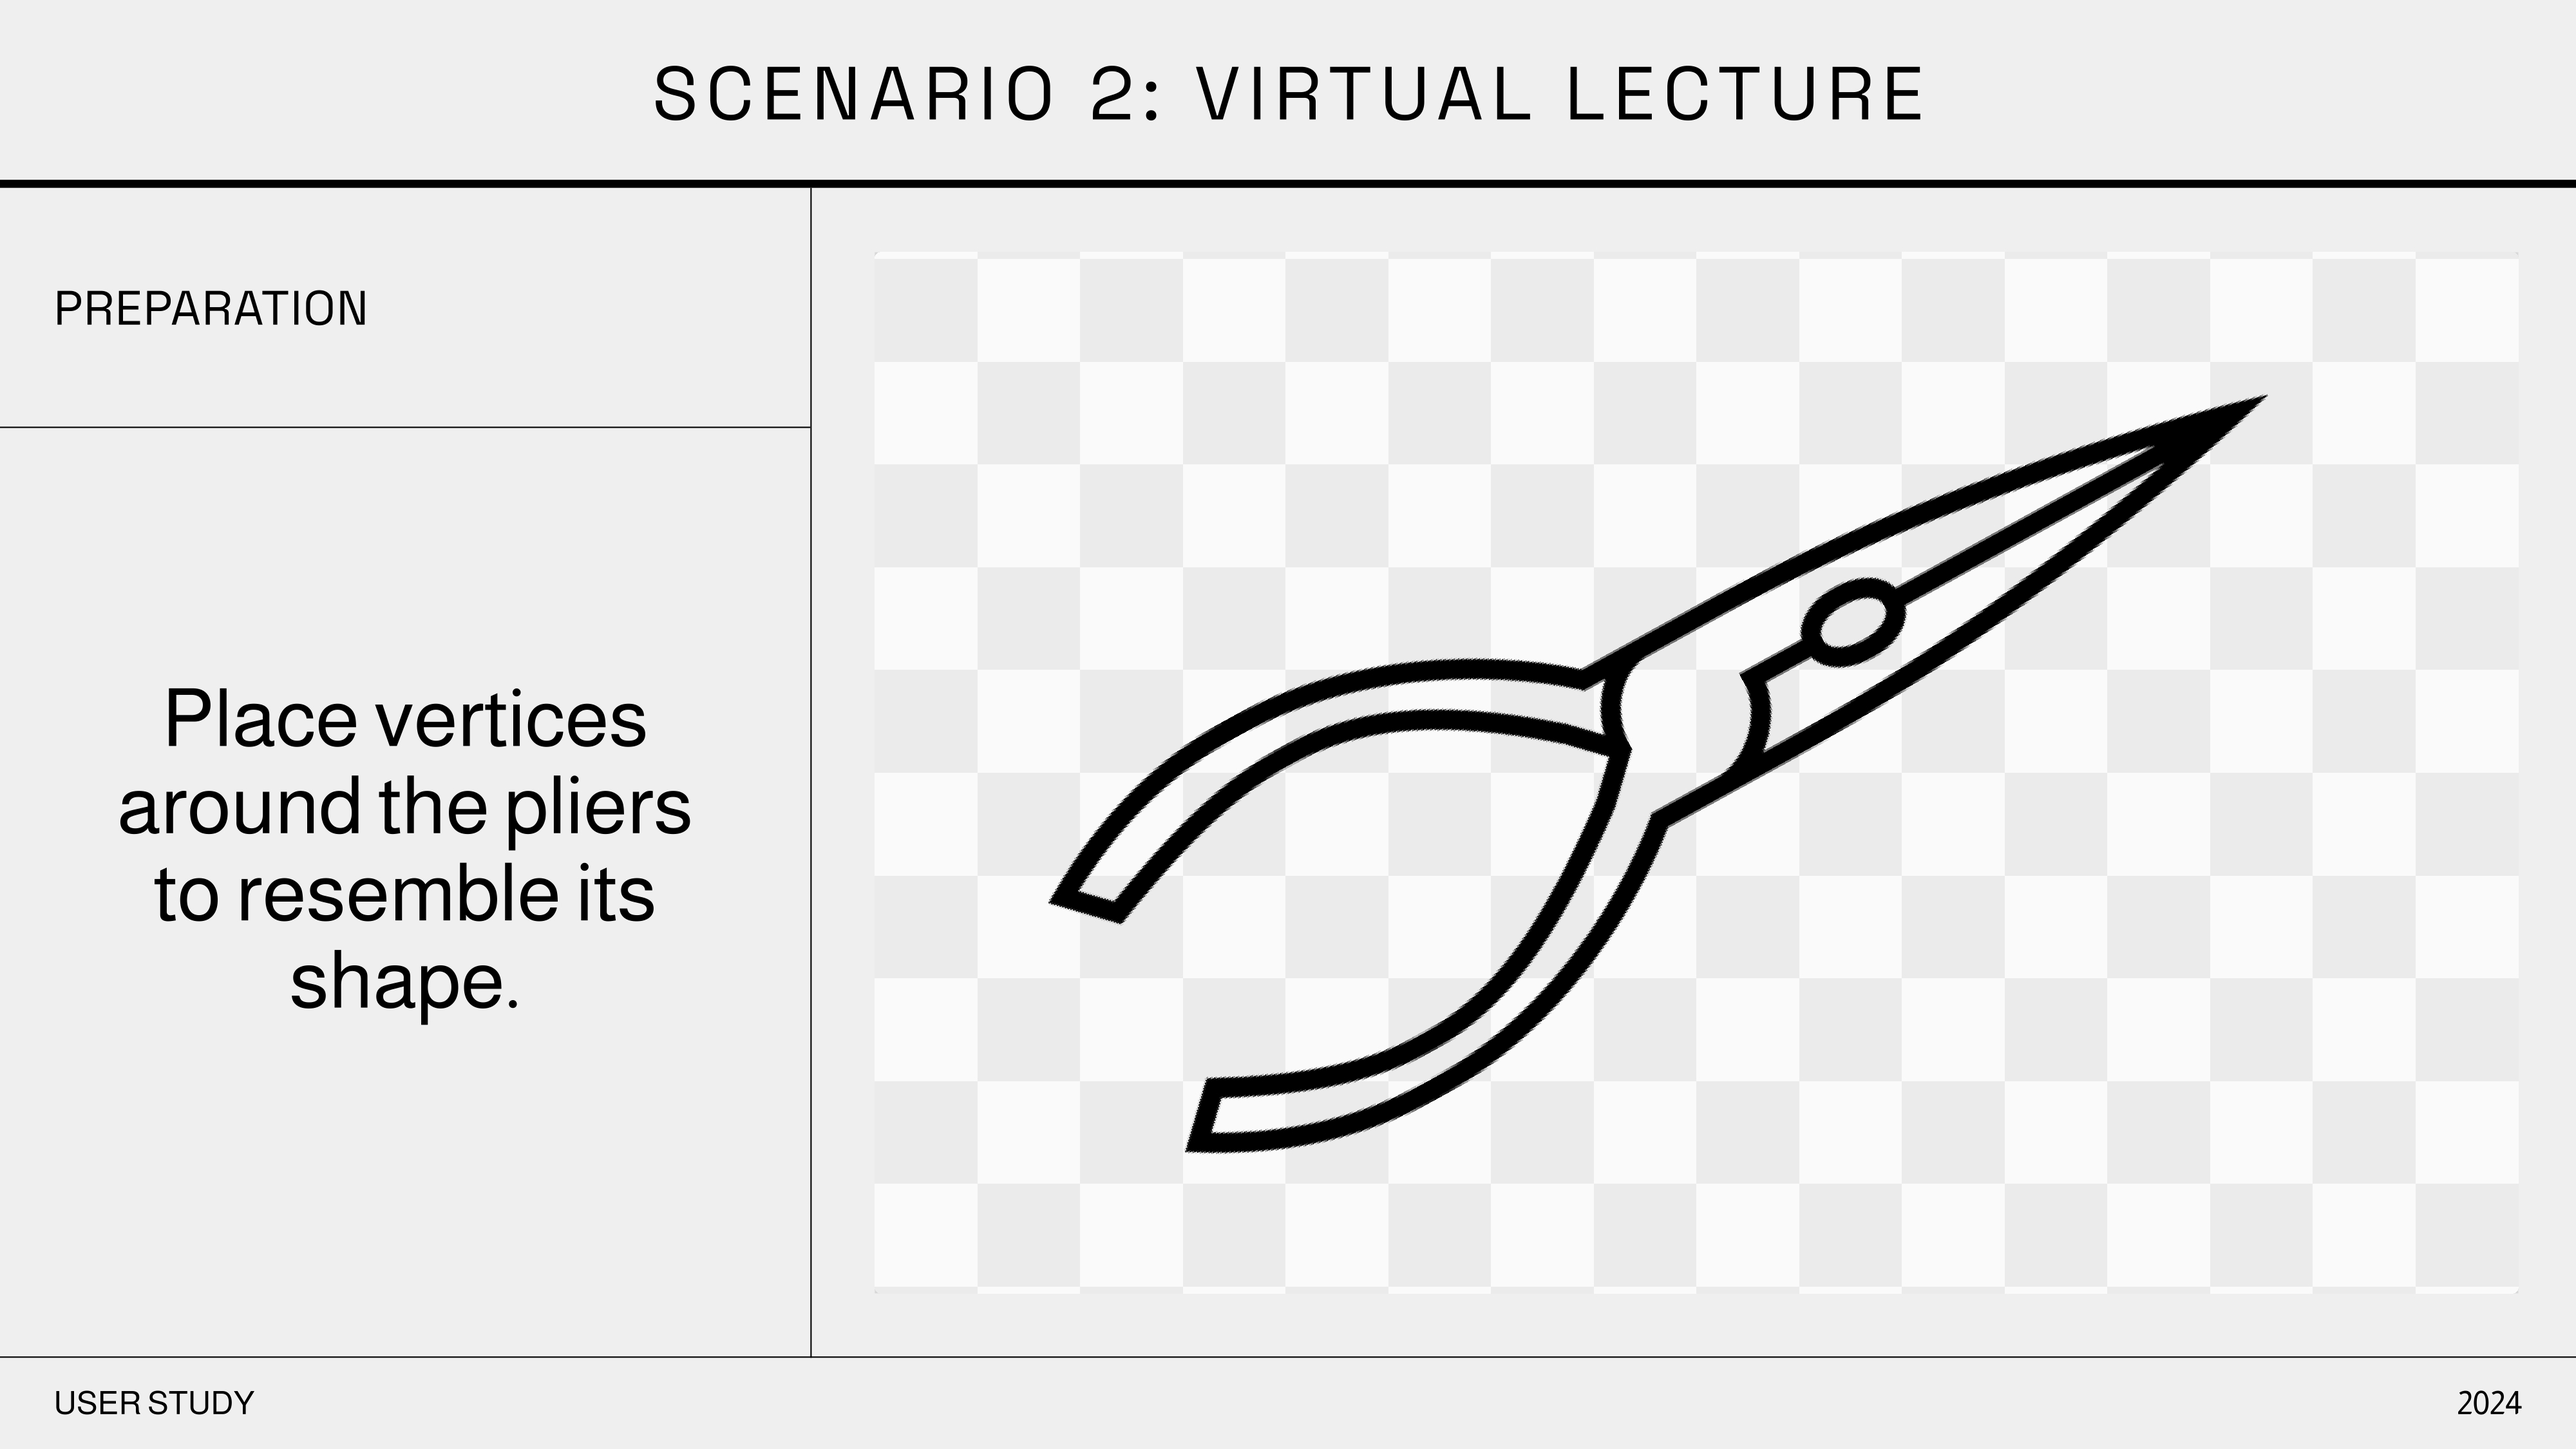
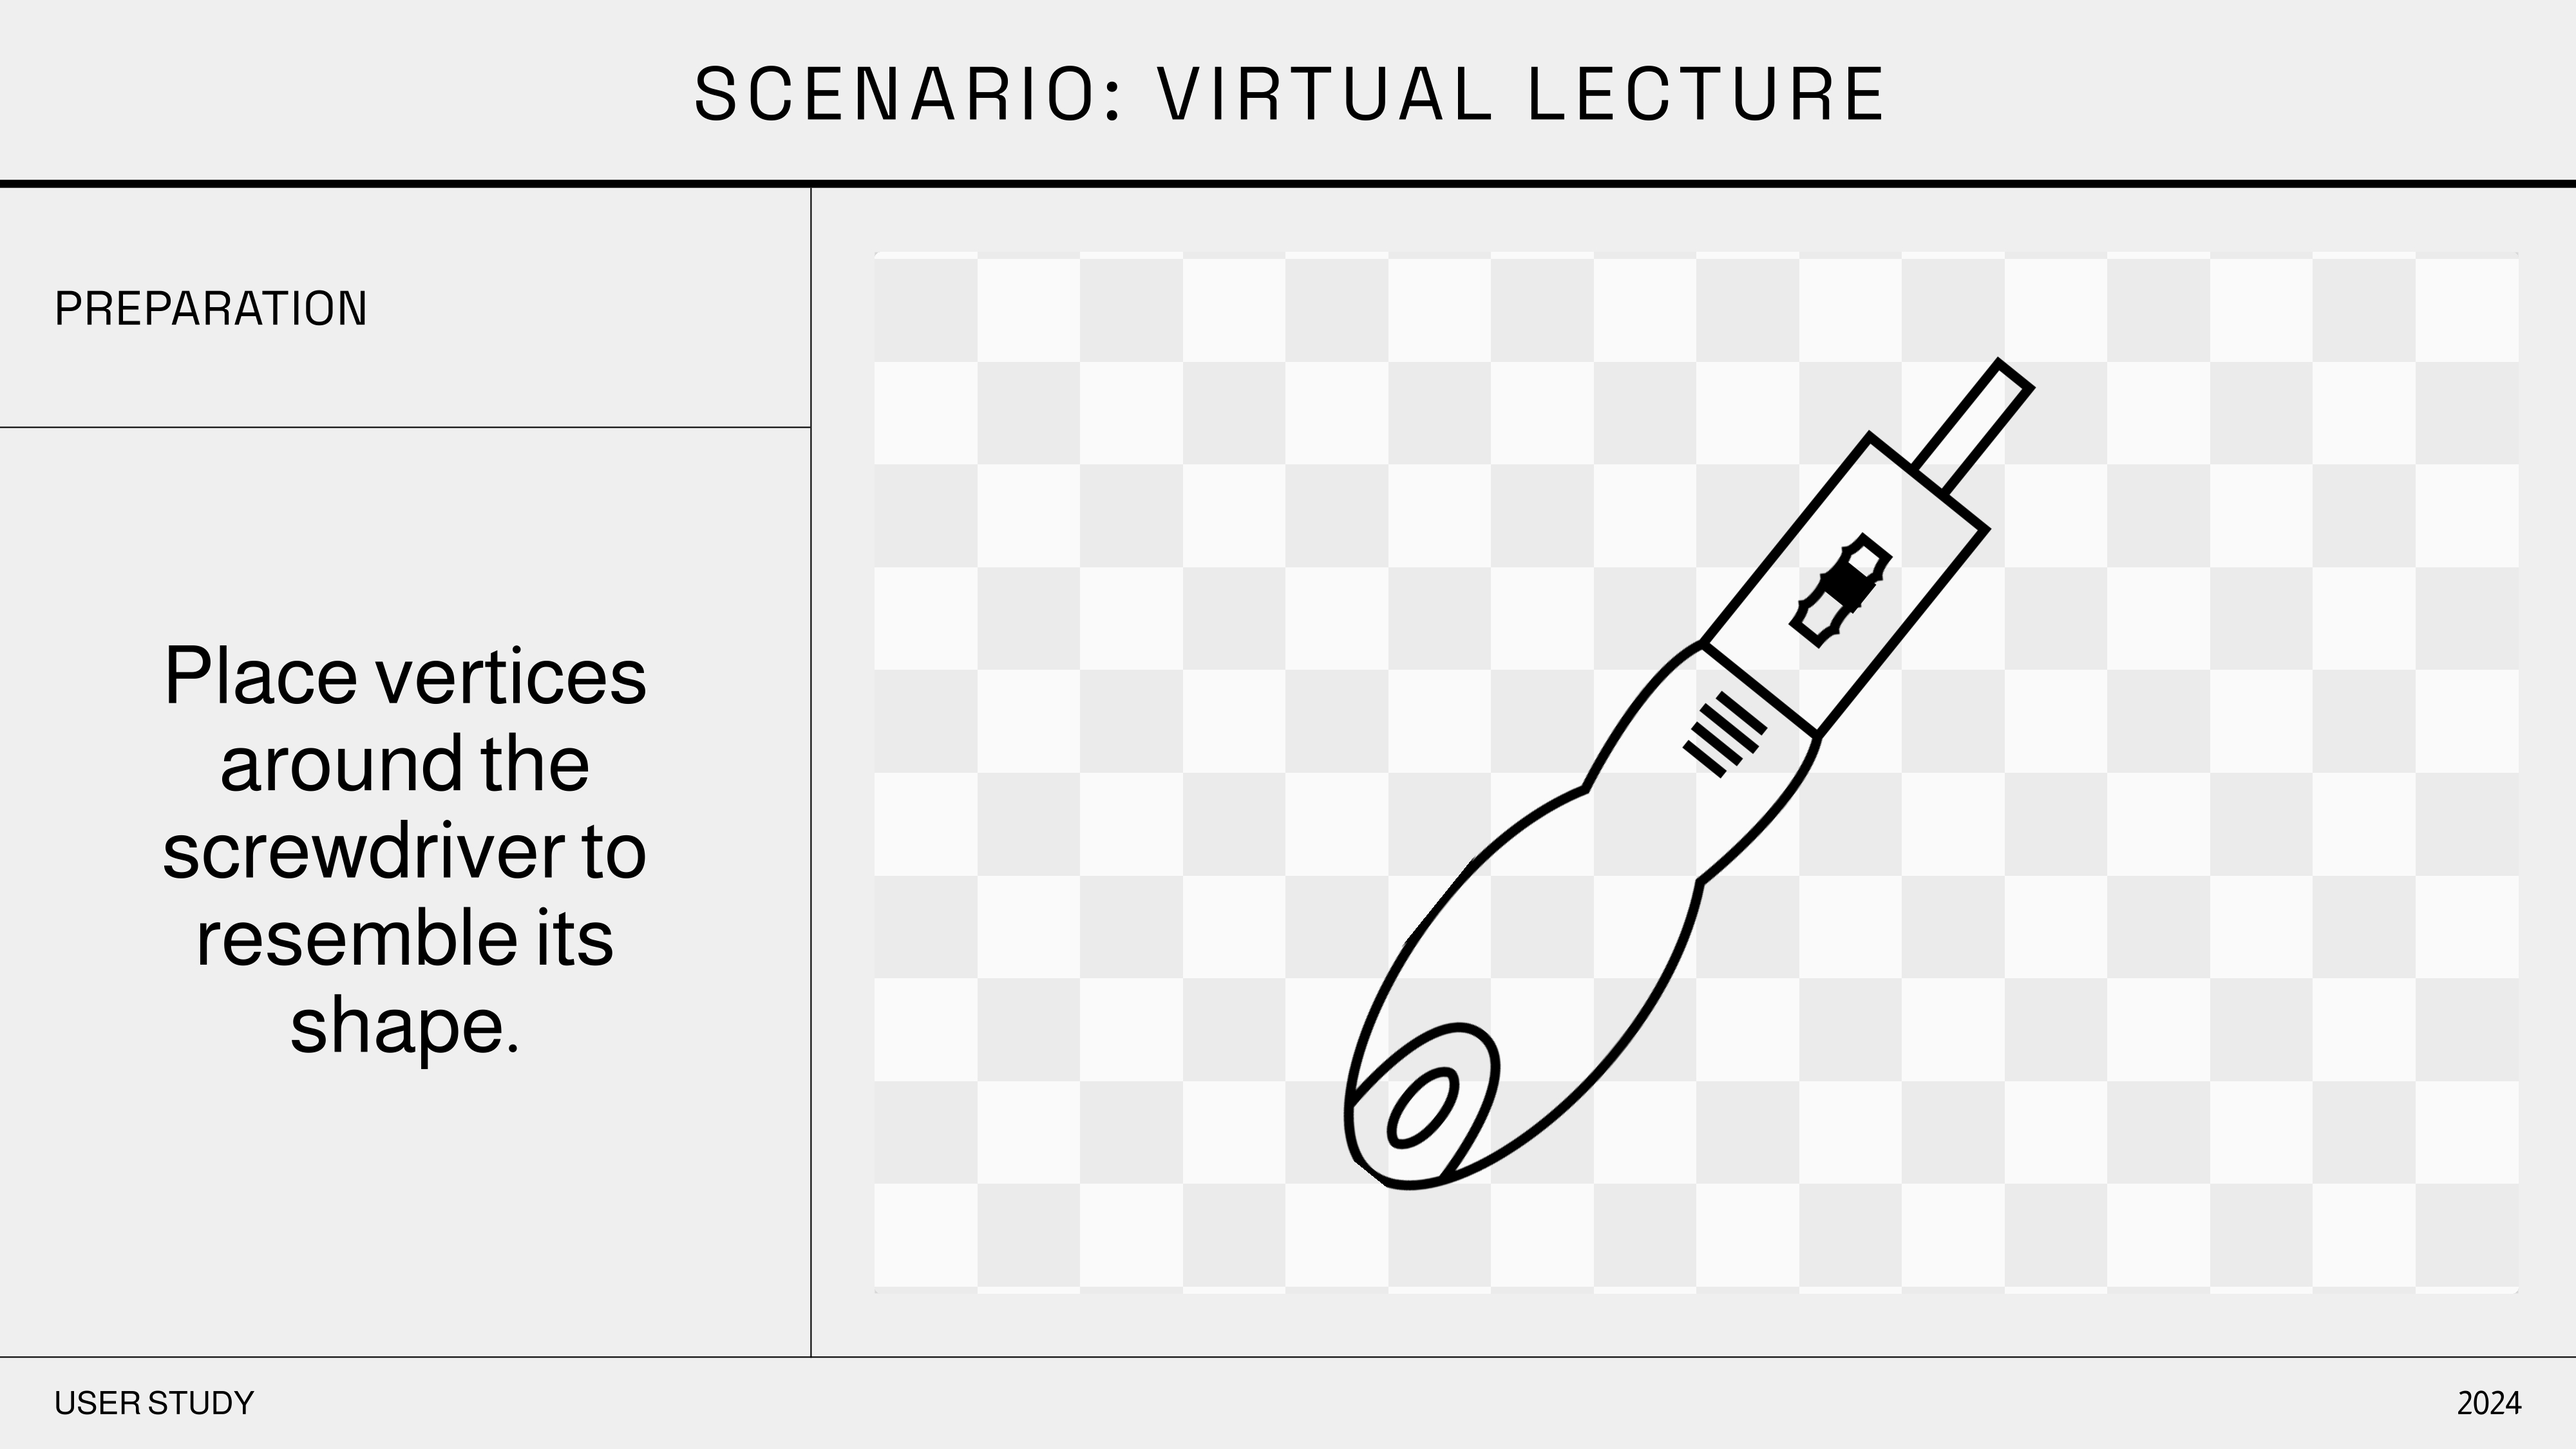
new slides

Changed region(s): [[0.4062, 0.2489, 0.875, 0.84], [0.0312, 0.4356, 0.2812, 0.7467], [0.25, 0.0311, 0.75, 0.0933]]

diff --git a/ObjectDetection/Assets/AudioManager.cs b/ObjectDetection/Assets/AudioManager.cs
@@ -38,7 +38,7 @@ public class AudioManager : MonoBehaviour
         public int numWords;
     }
 
-    private Subtitles[] subtitles = new Subtitles[22];
+    private Subtitles[] subtitles = new Subtitles[20];
 
     // Start is called before the first frame update
     void Start()
@@ -57,21 +57,21 @@ public class AudioManager : MonoBehaviour
         subtitles[4].text = "The first objective is to import the laptop into VR. You should create the shape of a laptop and edit it to fit in the best way possible. Once imported, lock its shape.";
         subtitles[5].text = "Your task is to use the laptop to answer an email. You will find an email written into a document. Write your response to the email in the same document.";
         subtitles[6].text = "In the second scenario, we are simulating a virtual lecture, where you will be learning about various tools. You will be asked to import them one by one, and then inspect and interact with them according to our instructions.";
-        subtitles[7].text = "Place vertices around the hammer to resemble its shape.";
-        subtitles[8].text = "The hammer is a tool commonly used to break things and drive nails in or out. It consists in two parts: a handle and a heavy metal head. Grab and lift the hammer from the table.";
-        subtitles[9].text = "Place vertices around the pliers to resemble its shape.";
-        subtitles[10].text = "Pliers can have a variety of purposes: bend wires, cut cables, firmly grip objects or manipulate small parts. Its shape can have variations, but usually they look like a pair of scissors. Grab the plier, and try to open and close it.";
-        subtitles[11].text = "Place vertices around the screwdriver to resemble its shape.";
-        subtitles[12].text = "The screwdriver is used for the insertion and removal of screws. It can have an interchangeable tip in order to be used with different types of screws. To facilitate its use, it is possible to change the direction it can be rotated. ";
-        subtitles[13].text = "Grab the screwdriver, and do the following interactions: Step 1: move the slider down to use it counterclockwise. Step 2: move the slider up to use it clockwise.";
-        subtitles[14].text = "Place vertices around the wrench to resemble its shape.";
-        subtitles[15].text = "The wrench is a tool used to provide grip and apply torque to turn objects - usually parts like nuts and bolts. It can also be adjustable, including a spinner that changes its width. Grab the wrench, and do the following interactions:";
-        subtitles[16].text = "Step 1: Pull the spinner down to make the wrench open. Step 2: Push the spinner up to make the wrench closer.";
-        subtitles[17].text = "Import the mug into virtual reality. You will find it at the virtual coffee table.";
-        subtitles[18].text = "Once imported, your task is to grab the mug from the coffee table, pretend to take a sip from it, then place the mug on your desk.";
-        subtitles[19].text = "Import the whiteboard into VR. Your task is to use the whiteboard to list your opinions of three designs (presented next) and choose your favorite. You can use the markers or your fingers to write.";
-        subtitles[20].text = "Using the whiteboard, provide your feedback for these three designs";
-        subtitles[21].text = "Thank you for participating";
+        // subtitles[7].text = "Place vertices around the hammer to resemble its shape.";
+        // subtitles[8].text = "The hammer is a tool commonly used to break things and drive nails in or out. It consists in two parts: a handle and a heavy metal head. Grab and lift the hammer from the table.";
+        subtitles[7].text = "Place vertices around the pliers to resemble its shape.";
+        subtitles[8].text = "Pliers can have a variety of purposes: bend wires, cut cables, firmly grip objects or manipulate small parts. Its shape can have variations, but usually they look like a pair of scissors. Grab the plier, and try to open and close it.";
+        subtitles[9].text = "Place vertices around the screwdriver to resemble its shape.";
+        subtitles[10].text = "The screwdriver is used for the insertion and removal of screws. It can have an interchangeable tip in order to be used with different types of screws. To facilitate its use, it is possible to change the direction it can be rotated. ";
+        subtitles[11].text = "Grab the screwdriver, and do the following interactions: Step 1: move the slider down to use it counterclockwise. Step 2: move the slider up to use it clockwise.";
+        subtitles[12].text = "Place vertices around the wrench to resemble its shape.";
+        subtitles[13].text = "The wrench is a tool used to provide grip and apply torque to turn objects - usually parts like nuts and bolts. It can also be adjustable, including a spinner that changes its width. Grab the wrench, and do the following interactions:";
+        subtitles[14].text = "Step 1: Pull the spinner down to make the wrench open. Step 2: Push the spinner up to make the wrench closer.";
+        subtitles[15].text = "Import the mug into virtual reality. You will find it at the virtual coffee table.";
+        subtitles[16].text = "Once imported, your task is to grab the mug from the coffee table, pretend to take a sip from it, then place the mug on your desk.";
+        subtitles[17].text = "Import the whiteboard into VR. Your task is to use the whiteboard to list your opinions of three designs (presented next) and choose your favorite. You can use the markers or your fingers to write.";
+        subtitles[18].text = "Using the whiteboard, provide your feedback for these three designs";
+        subtitles[19].text = "Thank you for participating";
 
 
         

diff --git a/ObjectDetection/Assets/SceneManager.cs b/ObjectDetection/Assets/SceneManager.cs
@@ -6,7 +6,7 @@ public class SceneManager : MonoBehaviour
 {
     // Start is called before the first frame update
     public GameObject plane1;
-    public Material[] materials = new Material[22];
+    public Material[] materials = new Material[20];
     public AudioSource audioSource;
     public AudioManager audioManager;
     private bool isPlaying = false;
@@ -58,6 +58,6 @@ public class SceneManager : MonoBehaviour
         audioManager.StopAllCoroutines();
         audioManager.PlayClip(currentStep);
 
-        plane1.GetComponent<MeshRenderer>().material = materials[currentStep%22];
+        plane1.GetComponent<MeshRenderer>().material = materials[currentStep%20];
     }
 }
